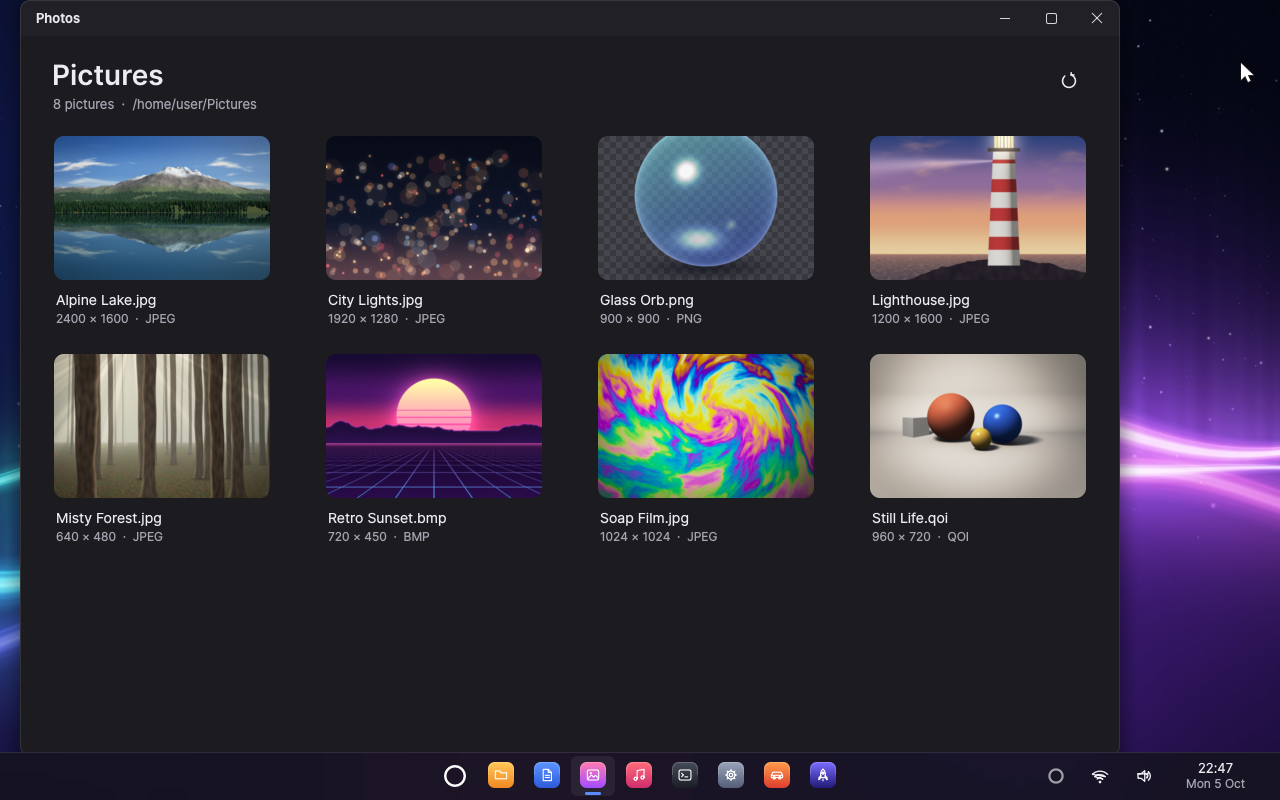
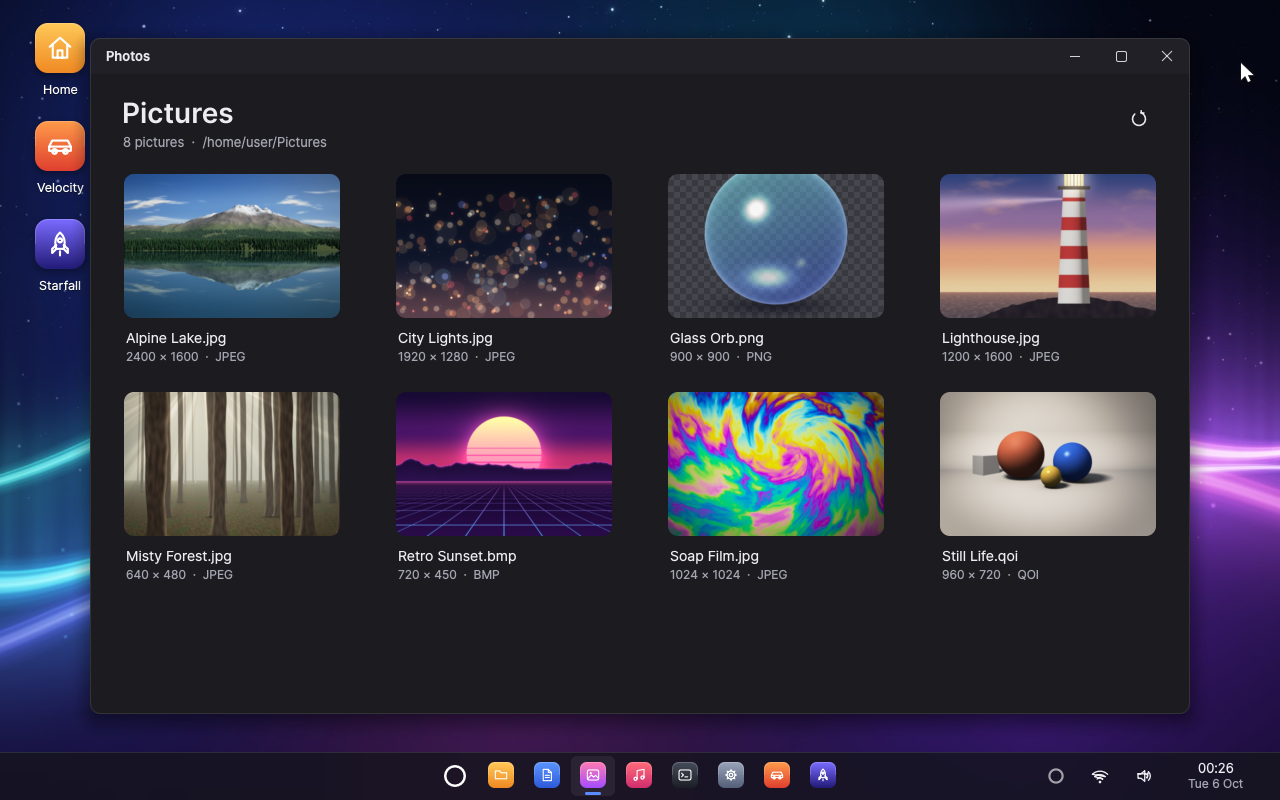
New windows open centred, and Photos fits on the desktop
The window system placed a new window 70 px left of and 50 px above the
centre of the work area, and each further window 28 px further down
and to the right. Now every window it places opens in the centre of
the work area (its title bar never above it; a window wider than the
work area at its left edge), and is centred again if the work area
changes before it is moved, as before.

Photos opens 640 px tall instead of 720: on a 1280x800 screen it was
taller than the space above the taskbar, which hid its bottom; it now
leaves 38 px above and below.

The scripts that click in windows before maximising them follow the
windows (about-interaction, ac97, music, photos, photos-open, snap,
wake-music and the screenshots' play button), and the README's
screenshots are taken again.

diff --git a/services/compositor/src/state.rs b/services/compositor/src/state.rs
@@ -107,11 +107,12 @@ pub(crate) struct Compositor {
 }
 
 /// The client rectangle of an automatically placed `w` x `h` window, with a
-/// title bar `tb` high, in cascade slot `slot` of the work area `area`.
-fn auto_rect(area: Rect, w: i32, h: i32, tb: i32, slot: i32) -> Rect {
-    let x = area.x + (area.w - w) / 2 + slot * 28 - 70;
-    let y = area.y + (area.h - h - tb) / 2 + slot * 28 - 50;
-    Rect::new(x.clamp(area.x, (area.right() - w).max(area.x)), y.max(area.y) + tb, w, h)
+/// title bar `tb` high: centred in the work area `area`, its top-left corner
+/// kept inside when the window is larger than the area.
+fn auto_rect(area: Rect, w: i32, h: i32, tb: i32) -> Rect {
+    let x = area.x + (area.w - w) / 2;
+    let y = area.y + (area.h - h - tb) / 2;
+    Rect::new(x.max(area.x), y.max(area.y) + tb, w, h)
 }
 
 /// The stacking layer of a window (higher layers are drawn on top). The
@@ -190,8 +191,8 @@ impl Compositor {
                 continue;
             }
             let tb = if w.kind == WindowKind::Normal { TITLE_HEIGHT } else { 0 };
-            if let Some(slot) = w.auto_slot {
-                w.restore_rect = auto_rect(area, w.restore_rect.w, w.restore_rect.h, tb, slot);
+            if w.auto_placed {
+                w.restore_rect = auto_rect(area, w.restore_rect.w, w.restore_rect.h, tb);
             }
             let target = match (w.state, w.snapped) {
                 (WindowState::Maximized, _) => Rect::new(area.x, area.y + TITLE_HEIGHT, area.w, area.h - TITLE_HEIGHT),
@@ -199,7 +200,7 @@ impl Compositor {
                     let r = snap.rect(area);
                     Rect::new(r.x, r.y + TITLE_HEIGHT, r.w, r.h - TITLE_HEIGHT)
                 }
-                (WindowState::Normal, None) if w.auto_slot.is_some() => w.restore_rect,
+                (WindowState::Normal, None) if w.auto_placed => w.restore_rect,
                 _ => continue,
             };
             if target == w.client_rect {
@@ -268,21 +269,18 @@ impl Compositor {
         self.focus(top);
     }
 
-    /// Where a new window goes: where the client asked, or cascaded around
-    /// the centre of the work area. Returns the client rectangle and, for
-    /// automatically placed windows, their cascade slot.
-    pub(crate) fn place_new_window(&self, spec: &WindowSpec) -> (Rect, Option<i32>) {
+    /// Where a new window goes: where the client asked, or in the centre of
+    /// the work area. Returns the client rectangle and whether the window
+    /// was placed automatically.
+    pub(crate) fn place_new_window(&self, spec: &WindowSpec) -> (Rect, bool) {
         let (w, h) = (spec.width as i32, spec.height as i32);
         let tb = if spec.kind == WindowKind::Normal { TITLE_HEIGHT } else { 0 };
         if spec.x != i32::MIN && spec.y != i32::MIN {
-            return (Rect::new(spec.x, spec.y + tb, w, h), None);
+            return (Rect::new(spec.x, spec.y + tb, w, h), false);
         }
         match spec.kind {
-            WindowKind::Desktop => (self.screen_rect(), None),
-            _ => {
-                let slot = self.windows.values().filter(|w| w.kind == WindowKind::Normal).count() as i32 % 6;
-                (auto_rect(self.work_area, w, h, tb, slot), Some(slot))
-            }
+            WindowKind::Desktop => (self.screen_rect(), false),
+            _ => (auto_rect(self.work_area, w, h, tb), true),
         }
     }
 
@@ -358,7 +356,7 @@ impl Compositor {
         let Some(w) = self.windows.get_mut(&id) else { return };
         let before = w.paint_bounds();
         w.snapped = None;
-        w.auto_slot = None;
+        w.auto_placed = false;
         w.client_rect = Rect::new(x - (rest.w as f32 * frac) as i32, y + TITLE_HEIGHT / 2, rest.w, rest.h);
         let (c, st) = (w.client_rect, w.state);
         let after = w.paint_bounds();
@@ -399,7 +397,7 @@ impl Compositor {
             w.restore_rect = w.client_rect;
         }
         w.snapped = Some(snap);
-        w.auto_slot = None;
+        w.auto_placed = false;
         let before = w.paint_bounds();
         w.client_rect = Rect::new(r.x, r.y + TITLE_HEIGHT, r.w, r.h - TITLE_HEIGHT);
         let (c, st) = (w.client_rect, w.state);

diff --git a/services/compositor/src/session.rs b/services/compositor/src/session.rs
@@ -48,7 +48,7 @@ impl display::Server for Session<'_> {
         let (ours, theirs) = Channel::create().map_err(|_| DisplayError::NoMemory)?;
         let id = self.comp.next_id;
         self.comp.next_id += 1;
-        let (rect, auto_slot) = self.comp.place_new_window(&spec);
+        let (rect, auto_placed) = self.comp.place_new_window(&spec);
         let animate = spec.kind == WindowKind::Normal || spec.kind == WindowKind::Popup;
         let win = Window {
             id,
@@ -70,7 +70,7 @@ impl display::Server for Session<'_> {
             anim: animate.then(|| Anim { kind: AnimKind::Open, start: vrt::time::now_ns(), duration: 180_000_000 }),
             closing: false,
             snapped: None,
-            auto_slot,
+            auto_placed,
         };
         let kind = win.kind;
         self.comp.windows.insert(id, win);
@@ -220,7 +220,7 @@ impl display::Server for Session<'_> {
         let w = self.comp.windows.get_mut(&id).unwrap();
         let tb = if w.decorated() { TITLE_HEIGHT } else { 0 };
         w.client_rect = Rect::new(x, y + tb, w.client_rect.w, w.client_rect.h);
-        w.auto_slot = None;
+        w.auto_placed = false;
         self.comp.damage_window(id);
         if self.comp.windows[&id].kind == WindowKind::Panel {
             self.comp.update_work_area();

diff --git a/services/compositor/src/input.rs b/services/compositor/src/input.rs
@@ -63,7 +63,7 @@ impl Compositor {
                     let before = w.paint_bounds();
                     let ny = (y - dy).max(area.y + TITLE_HEIGHT).min(area.bottom() - 8);
                     w.client_rect = Rect::new(x - dx, ny, w.client_rect.w, w.client_rect.h);
-                    w.auto_slot = None;
+                    w.auto_placed = false;
                     let after = w.paint_bounds();
                     self.damage.add(before);
                     self.damage.add(after);
@@ -91,7 +91,7 @@ impl Compositor {
                     }
                     if r != w.client_rect {
                         w.client_rect = r;
-                        w.auto_slot = None;
+                        w.auto_placed = false;
                         let after = w.paint_bounds();
                         self.damage.add(before);
                         self.damage.add(after);

diff --git a/services/compositor/src/window.rs b/services/compositor/src/window.rs
@@ -105,9 +105,9 @@ pub struct Window {
     pub closing: bool,
     /// Snapped to half of the screen (dragging restores `restore_rect`).
     pub snapped: Option<Snap>,
-    /// Placed automatically in this cascade slot and not moved by the user
-    /// since: the window is placed again when the work area changes.
-    pub auto_slot: Option<i32>,
+    /// Placed automatically (centred) and not moved by the user since: the
+    /// window is placed again when the work area changes.
+    pub auto_placed: bool,
 }
 
 impl Window {

diff --git a/apps/photos/src/main.rs b/apps/photos/src/main.rs
@@ -45,7 +45,7 @@ vrt::entry!(main);
 /// At most this many pictures keep their thumbnails in memory (about 0.6 MB each).
 const MAX_THUMBS: usize = 240;
 /// The window's size when it opens.
-const WINDOW_SIZE: (i32, i32) = (1100, 720);
+const WINDOW_SIZE: (i32, i32) = (1100, 640);
 
 /// What the window shows.
 #[derive(Debug, Clone, Copy, PartialEq, Eq)]
